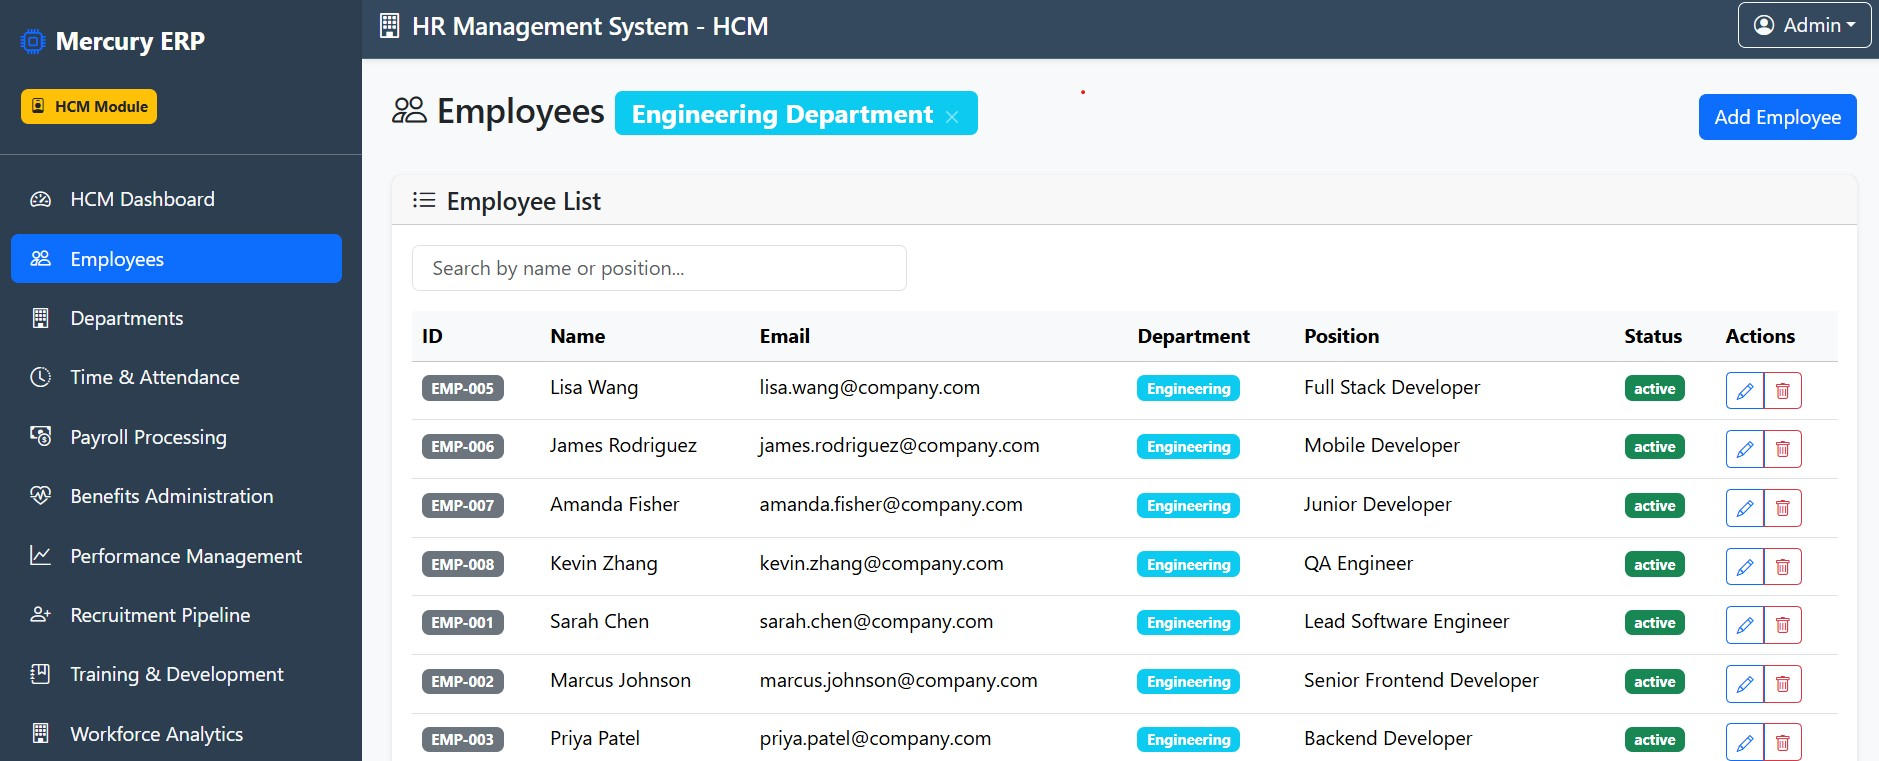
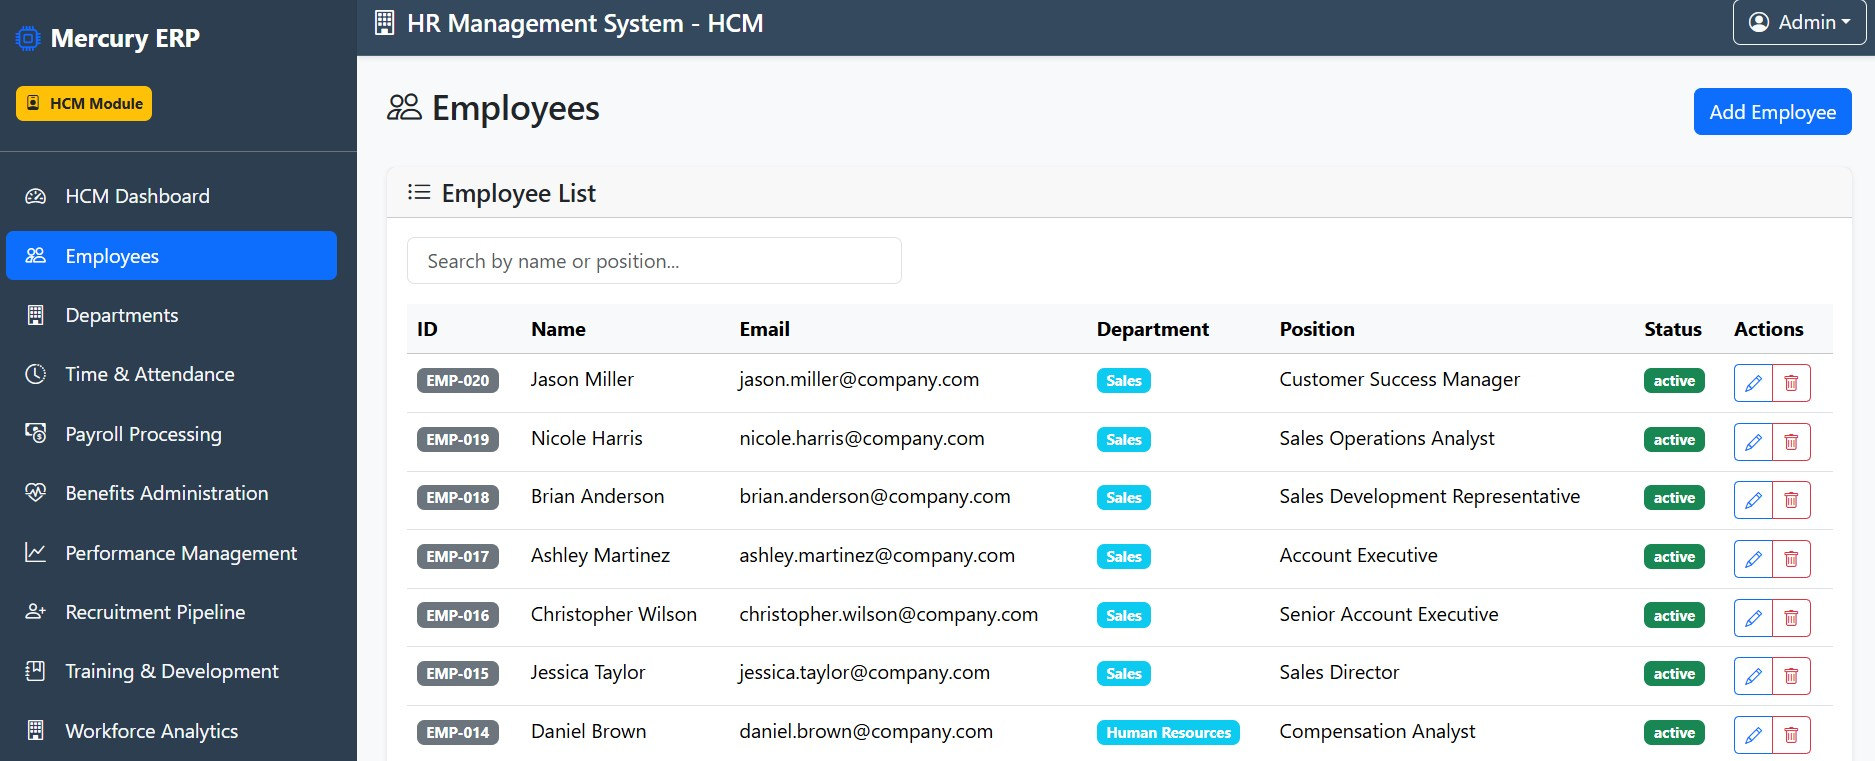
chorn: updated readme.md - added filtered view

diff --git a/README.md b/README.md
@@ -15,6 +15,9 @@ WILL BE PUSHED BY OCT-10-25. YOU CAN FORK THIS BACKEND AND BUILD YOUR OWN FRONT 
 
 ![Alt text](docs/erp-view1.jpg)
 ![Alt text](docs/erp-emps.jpg)
+# Filtered Employees per Department
+![Alt text](docs/erp-emps-filter.jpg)
+
 ![Alt text](docs/erp-deps.jpg)
 
 1. **Deploying your Node.js/Express Server to Railway**
